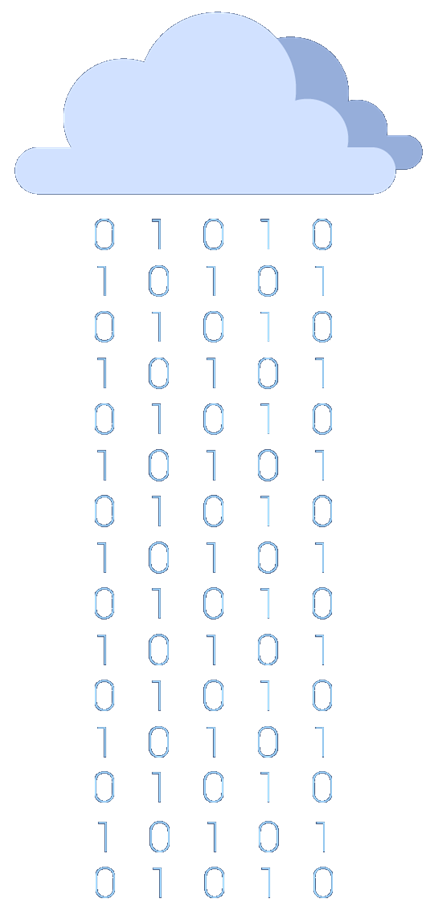
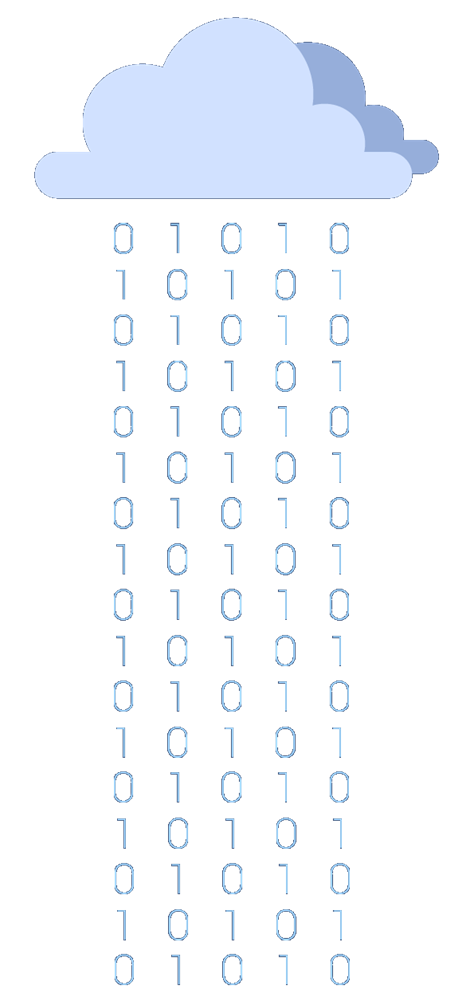
Add files via upload

diff --git a/index.html b/index.html
@@ -33,7 +33,7 @@
 
 <body>
 	<div>
-	<img src="images/cloud.png" class="main_profile_box_cloud">
+		<img src="images/cloud.png" class="main_profile_box_cloud">
 		<div id="main_page" class="main_page">
 			
 			<div class="main_profile_box">
@@ -44,6 +44,7 @@
 					</div>
 				</div>
 				<img src="images/coffee.png" class="main_profile_box_coffee">
+				
 			  <h2><i>Hi, I'm</i></h2>
 			  <h1>Mayank Sharma</h1>
 			  <hr>

diff --git a/css/style.css b/css/style.css
@@ -50,7 +50,8 @@ body{
 }
 
 .main_profile_box_cloud{
-	padding-left:13%;
+	padding-left:10%;
+	width:30%;
 	z-index:1;
 	position:absolute;
 }
